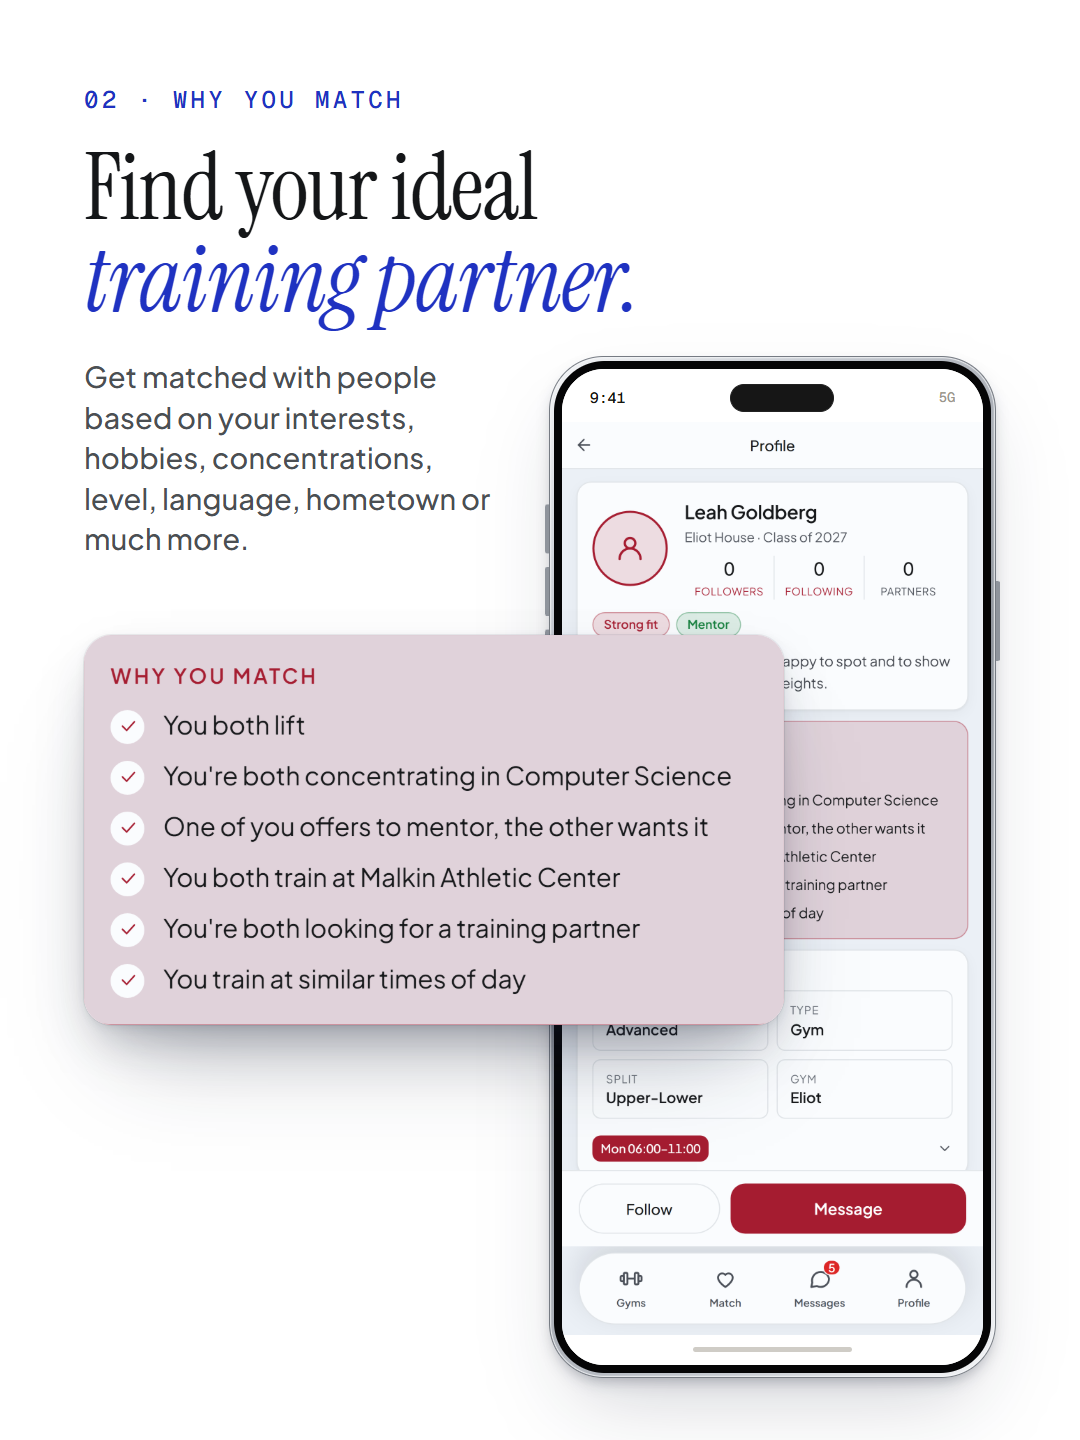
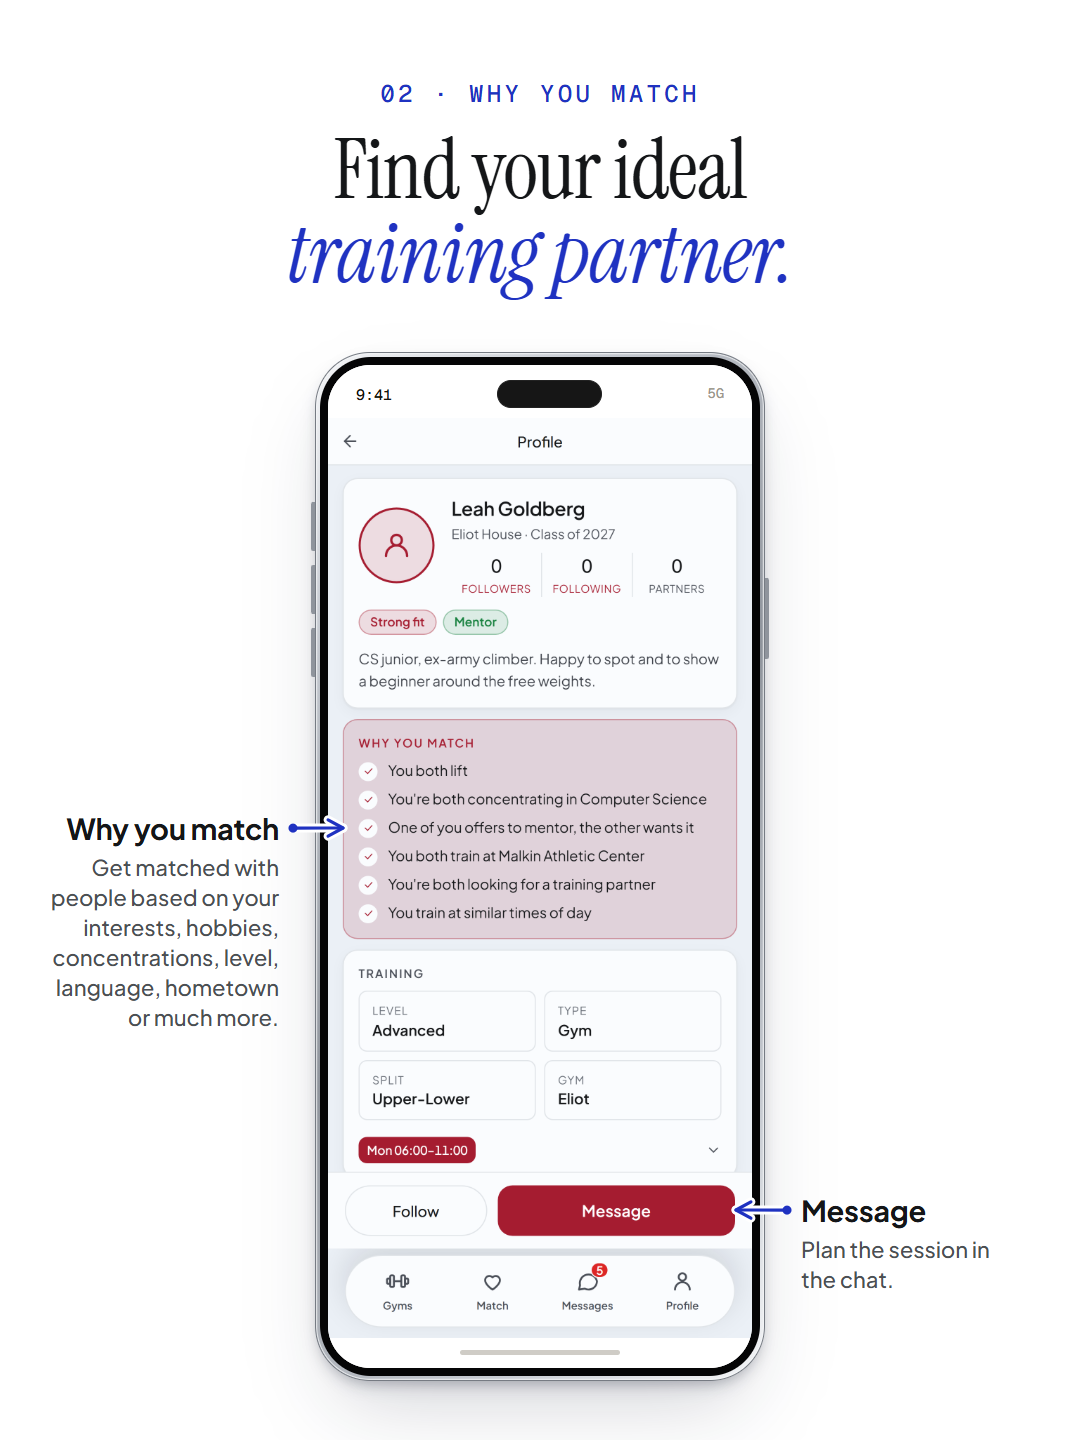
social: launch carousel v3 - the phone in the middle, the features either side with arrows
The owner, on v2: "phone in middle and features on side pointing on it with
arrow". Every slide is one whole, uncovered phone in the middle; each feature
stands beside it (the site's name and line) with a blue arrow to the exact
thing on the screen: the People and Sessions tabs, Mentor fit, Plan, Accept,
+ Log, the leaderboard card, Memories. The cover points the hero's four
actions at a person and the Gyms, Messages and Profile tabs. Labels stand
level with their point and are pushed apart so none touch.

Changed region(s): [[0.0611, 0.0625, 0.9472, 1.0]]

diff --git a/SOCIAL.md b/SOCIAL.md
@@ -444,7 +444,7 @@ The screens are shot signed in (`scripts/landing/save-cookie.mjs --fresh`, then
 | the 23 s launch reel, dark | `mockups/video/unisport-reel.mp4` (not in git) | `scripts/video/reel.mjs` |
 | 7-slide feed carousel, dark, from the other session | `mockups/social/carousel/` | `scripts/social/carousel.mjs` |
 | **8-slide "how it works" carousel, WHITE, student side** (demo account renamed Jonas Keller 2026-09-22) | `mockups/social/carousel-white/` | `scripts/social/carousel-white.mjs` |
-| **8-slide LAUNCH carousel, 3:4 (1080×1440), white** — the website's front door: the intro's two phones, then Match, Why you match, Plan, Profile, Gyms (each with the real card lifted out of the phone), Campus Colours, the waitlist (2026-09-27) | `mockups/social/launch/` | `scripts/social/launch-carousel.mjs`; fresh screens + card boxes: `scripts/social/capture-launch.mjs` |
+| **8-slide LAUNCH carousel, 3:4 (1080×1440), white** — the phone in the middle of every slide and the features either side of it, each with an arrow to the button it is about: the intro (the four actions on their tabs), Match, Why you match, Plan, Profile, Gyms, Campus Colours, the waitlist (2026-09-27) | `mockups/social/launch/` | `scripts/social/launch-carousel.mjs`; fresh screens + card boxes: `scripts/social/capture-launch.mjs` |
 
 **The posts:** 01 waitlist ("Get in on day one." + the link) · 02 the headline
 ("Your campus. Your gym. Your people.") · 03 Match · 04 Why you match · 05 Plan in the
